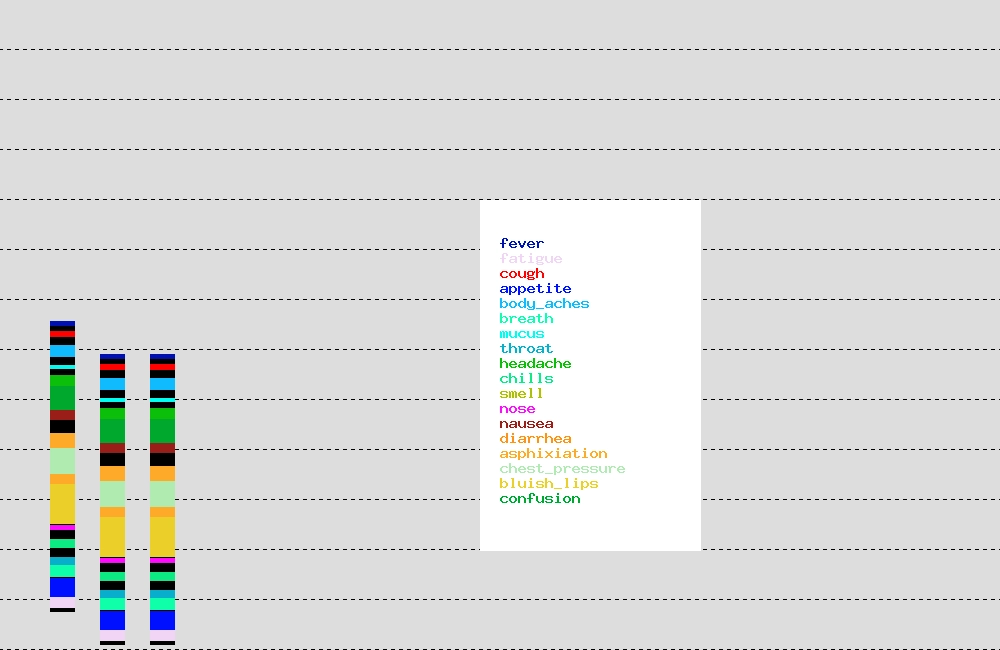
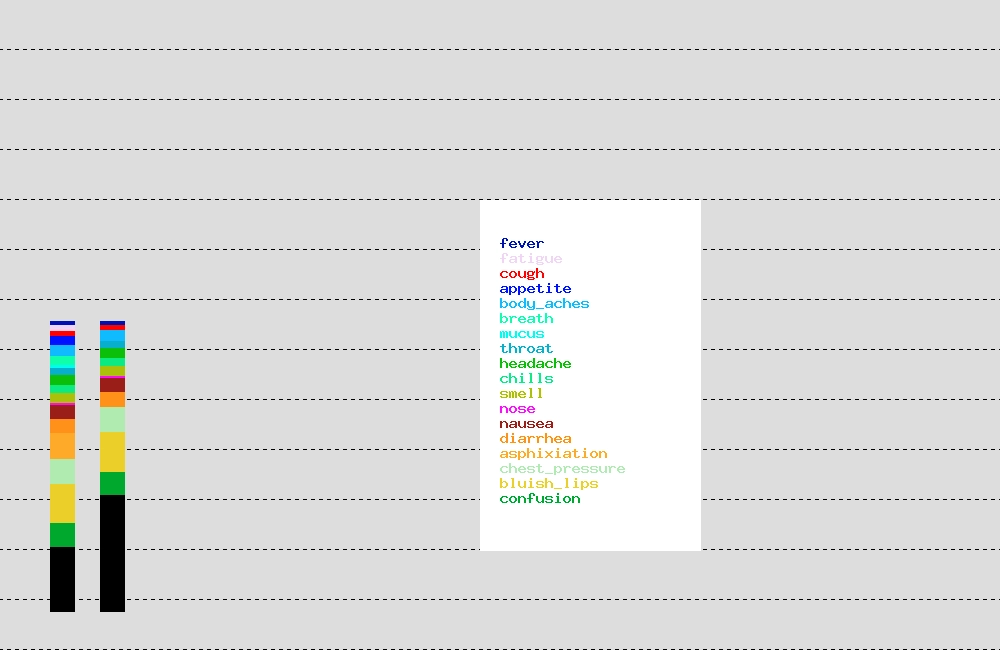
Update

Changed region(s): [[0.031, 0.4923, 0.186, 1.0]]

diff --git a/covid.php b/covid.php
@@ -56,10 +56,13 @@
         public $image_height = 650;
         public $between = 50;
 
-        public function start_image (string $img, array $arrays, array $totals)
+        public function start_image (string $img, array $totals)
         {
+            
+            $this->arr = array("fever" => 0.04, "fatigue" => 0.06, "cough" => 0.05, "appetite" => 0.09, "body_aches" => 0.11,
+                "breath" => 0.09, "mucus" => 0.03, "throat" => 0.07, "headache" => 0.1, "chills" => 0.08, "smell" => 0.1, "nose" => 0.02, "nausea" => 0.14, "diarrhea" => 0.15,
+                "asphixiation" => 0.25, "chest_pressure" => 0.25, "bluish_lips" => 0.40, "confusion" => 0.11);
             $this->total = $totals;
-            $this->arr = $arrays;
             $x = 0;
             $keys = [];
             foreach ($this->arr as $key => $values) {
@@ -95,7 +98,9 @@
         public function draw_candlestick (string $symptom, float $symptom_pct, float $total) {
             if ($total == 0)
                 return $this;
-            imageflip($this->image_candle, IMG_FLIP_VERTICAL);
+            if ($this->image_candle == null)
+                $this->image_candle = imagecreatetruecolor(25, $this->image_scale);
+            
             $this->set_symptom_color($symptom);
             imagefilledrectangle($this->image_candle, 0, ($this->symptom_total_pct)*100, 25, ($this->symptom_total_pct + ($symptom_pct* $total))*100, $this->color);
             $this->symptom_total_pct += $symptom_pct;
@@ -104,8 +109,17 @@
 
         public function merge_candlestick (int $day_cnt, int $cases)
         {
-            imagecopymerge($this->image, $this->image_candle, $day_cnt*50, $cases * ($this->between/$this->image_height), 0, 0, 25, $this->image_scale, 100);
+
+            imageflip($this->image_candle, IMG_FLIP_VERTICAL);
+            imagecopymerge($this->image, $this->image_candle, $day_cnt*50, $cases * ($this->between/$this->image_height), 0, 0, 25, $this->image_scale , 100);
             $this->symptom_total_pct = 0;
+            return $this;
+        }
+
+        public function destroy_candle()
+        {
+            imagedestroy($this->image_candle);
+            $this->image_candle = null;
             return $this;
         }
 
@@ -138,7 +152,16 @@
     
     $total_symptoms = array(1, 2, 1, 2,1,2,1,1,1,1,1,2,1,2,2,1,1,2);
     $img_mrk = new ImageMaker();
-    $img_mrk->start_image("null.webp", $symptoms, $total_symptoms)->draw_dashed_pct(50, 50);
+    $img_mrk->start_image("null.webp", $total_symptoms)->draw_dashed_pct(50, 50);
+    $y = 0;
+    foreach ($symptoms as $symptom => $percent)
+    {
+        $img_mrk->draw_candlestick($symptom, $percent, $total_symptoms[$y]);
+        $y++;
+    }
+    $img_mrk->merge_candlestick(1, 500);
+    $img_mrk->destroy_candle();
+    $total_symptoms = array(1, 0, 1, 0,1,0,0,1,1,1,1,2,1,2,0,1,1,2);
     $y = 0;
     foreach ($symptoms as $symptom => $percent)
     {
@@ -146,9 +169,7 @@
         $y++;
     }
 
-    $img_mrk->merge_candlestick(1, 500);
-    $img_mrk->merge_candlestick(2, 75);
-    $img_mrk->merge_candlestick(3, 75);
+    $img_mrk->merge_candlestick(2, 500);
     $img_mrk->export();
 
     echo "<img src='null.webp'>";
